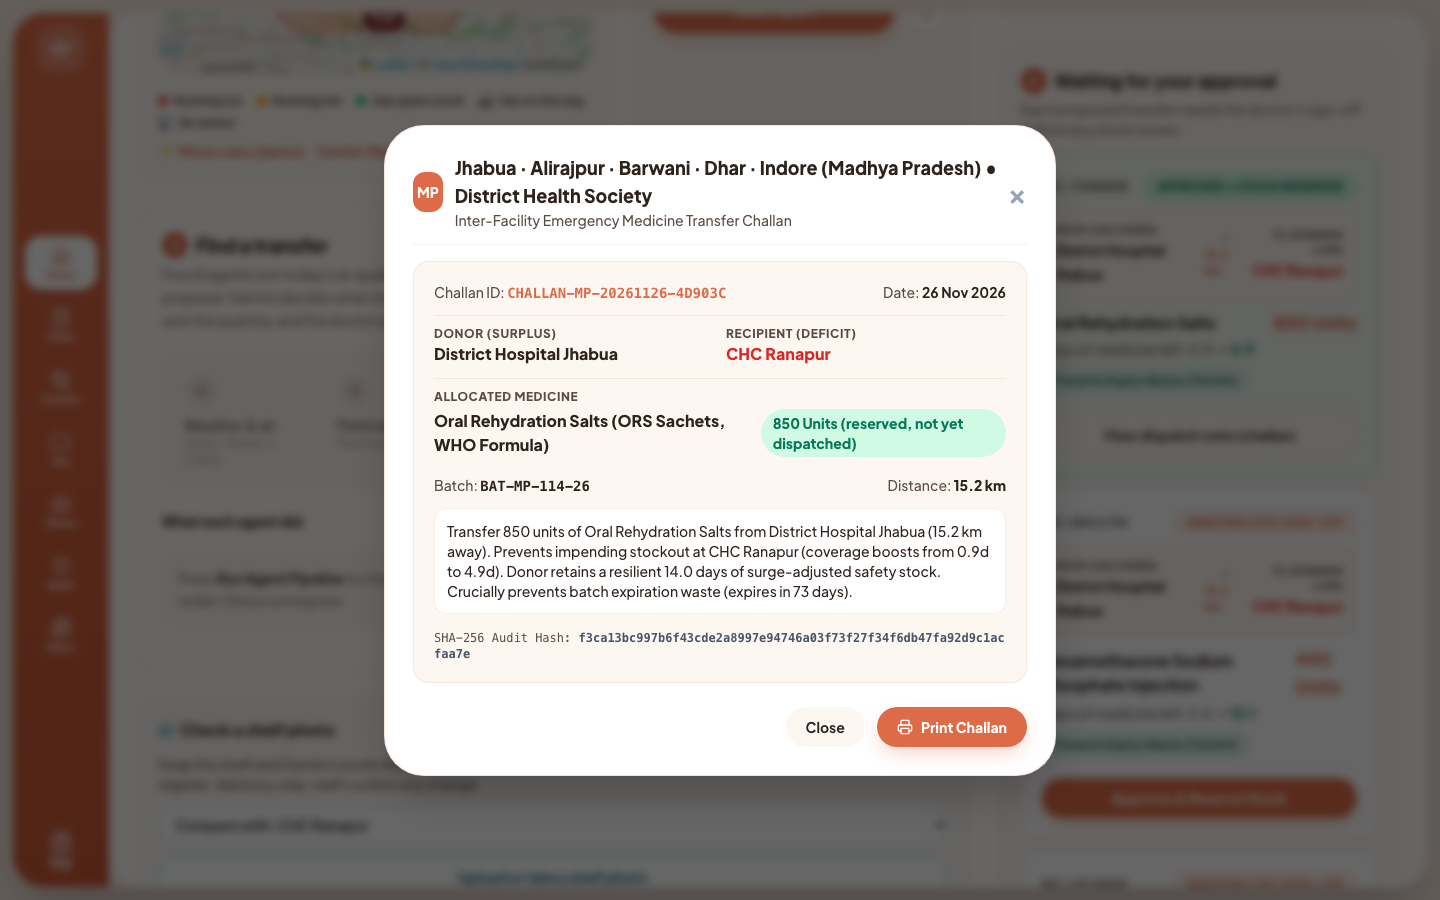
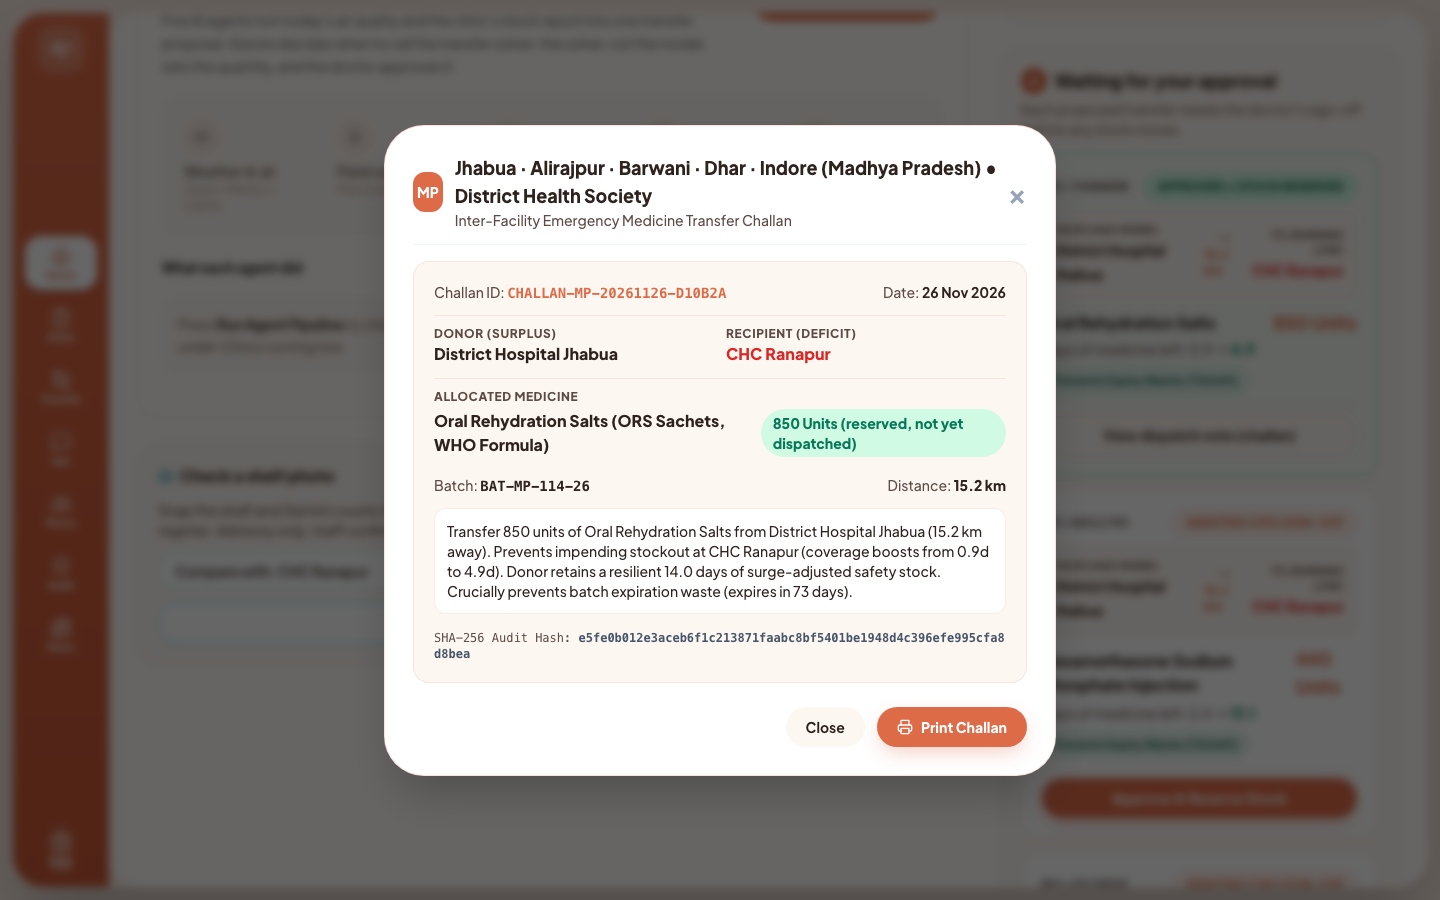
feat: rupees-saved panel for the district officer
- GET /api/impact/value?region=: rupees of near-expiry stock moved (Jan Aushadhi MRPs, each price row
  cited in data/medicines.json), stockout-days avoided in the first week, transfers approved, and the
  running-cost estimate, with every assumption listed. Per visitor.
- Salbutamol 2.5 mg respules and cetirizine 10 mg have no PMBJP price: counted as Rs 0 and listed.
- Dashboard card 'What your approvals saved'; radius copy follows the region (35 km; 50 km in MP).

diff --git a/static/app.js b/static/app.js
@@ -274,6 +274,8 @@ function initMap() {
   startCourierAnimationLoop();
 }
 
+function regionRadiusKm() { return currentRegion === 'indore' ? 50 : 35; }  // mirrors max_distance_km in app/regions.py
+
 const REGION_BUTTONS = { indore: 'btnRegionIdr', bhubaneswar: 'btnRegionBbs', lucknow: 'btnRegionLko' };
 function updateRegionButtons(regId) {
   const on = 'px-3.5 py-2 rounded-full font-black text-xs sm:text-sm bg-clay-terracotta text-white shadow-clay-btn transition flex items-center space-x-1.5';
@@ -304,6 +306,7 @@ async function switchRegion(regionId) {
   await fetchRisks();
   await fetchRecommendations();
   await fetchAuditLog();
+  await fetchImpactValue();
   await fetchNews(regionId);
   await loadClinicDesk(currentClinicFacilityId);
 }
@@ -334,6 +337,7 @@ async function loadInitialData(adoptServerRegion = false) {
     await fetchRisks();
     await fetchRecommendations();
     await fetchAuditLog();
+    await fetchImpactValue();
     await fetchNews(currentRegion);
     await loadClinicDesk(currentClinicFacilityId);
   } catch (err) {
@@ -779,7 +783,7 @@ function renderWatchlist(searchQuery = '') {
       </div>
       <div class="text-right flex items-center space-x-2 flex-shrink-0 pl-2">
         <span class="text-sm font-black text-clay-dark whitespace-nowrap">${item.current_stock} Units</span>
-        <button onclick="${isCritical ? 'runTransferFor' : 'openFacilityDetail'}('${safeId(item.facility_id)}')" class="text-xs ${isCritical ? 'bg-clay-terracotta hover:bg-clay-terracottaDark text-white' : 'bg-clay-terracotta/10 text-clay-terracotta hover:bg-clay-terracotta hover:text-white'} px-3.5 py-1.5 rounded-full font-bold shadow-sm transition cursor-pointer whitespace-nowrap" title="${isCritical ? 'Look for a clinic within 35 km that can spare stock' : 'See this clinic\'s stock'}">
+        <button onclick="${isCritical ? 'runTransferFor' : 'openFacilityDetail'}('${safeId(item.facility_id)}')" class="text-xs ${isCritical ? 'bg-clay-terracotta hover:bg-clay-terracottaDark text-white' : 'bg-clay-terracotta/10 text-clay-terracotta hover:bg-clay-terracotta hover:text-white'} px-3.5 py-1.5 rounded-full font-bold shadow-sm transition cursor-pointer whitespace-nowrap" title="${isCritical ? 'Look for a nearby clinic that can spare stock' : 'See this clinic\'s stock'}">
           ${isCritical ? 'Find stock' : 'View'}
         </button>
       </div>
@@ -1191,6 +1195,28 @@ function regionForFacility(facId) {
 
 function closeModal() {
   document.getElementById('challanModal').classList.add('hidden');
+}
+
+async function fetchImpactValue() {
+  try {
+    const res = await fetch(`/api/impact/value?region=${encodeURIComponent(currentRegion)}`);
+    if (!res.ok) return;
+    const v = await res.json();
+    const inr = n => '₹' + Number(n || 0).toLocaleString('en-IN');
+    const set = (id, text) => { const el = document.getElementById(id); if (el) el.textContent = text; };
+    set('valueSavedInr', inr(v.expiry_value_saved_inr));
+    set('valueDaysAvoided', String(v.stockout_days_avoided));
+    set('valueTransfers', String(v.transfers_approved));
+    set('valueCost', inr(v.projected_monthly_cost_inr) + '/mo');
+    const ul = document.getElementById('valueAssumptions');
+    if (ul) {
+      const notes = [...(v.assumptions || [])];
+      if ((v.unpriced_medicines || []).length) notes.push(`No sourced price, counted as ₹0: ${v.unpriced_medicines.join(', ')}.`);
+      ul.innerHTML = notes.map(t => `<li>${escapeHtml(t)}</li>`).join('');
+    }
+  } catch (e) {
+    console.error('fetchImpactValue error:', e);
+  }
 }
 
 async function resetMyDemo() {
@@ -1690,7 +1716,7 @@ function pipelineStepSummary(data, traces) {
     transfer: rec
       ? { state: 'done', figure: `${Number(rec.units_to_transfer) || 0} units from ${rec.donor_facility_name}` }
       : logistics
-        ? { state: 'alert', figure: 'No donor within 35 km' }
+        ? { state: 'alert', figure: `No donor within ${regionRadiusKm()} km` }
         : { state: 'skipped', figure: 'Not needed' },
     cmo: rec
       ? { state: 'waiting', figure: 'Waiting for approval' }
@@ -1720,7 +1746,7 @@ function renderPipelineOutcome(data, facId, medicineName) {
       <p class="text-sm font-bold text-[#2F6B52]">Proposal for ${facName} · waiting for CMO sign-off</p>
       <h4 class="text-xl sm:text-2xl font-black text-clay-dark tracking-tight mt-1 leading-snug">Send ${Number(rec.units_to_transfer) || 0} units of ${med} from ${escapeHtml(rec.donor_facility_name)} to ${escapeHtml(rec.recipient_facility_name)}</h4>
       <div class="grid grid-cols-2 lg:grid-cols-4 gap-2 mt-4">
-        ${figure(`${Number(rec.distance_km) || 0} km`, 'Distance (limit 35 km)')}
+        ${figure(`${Number(rec.distance_km) || 0} km`, `Distance (limit ${regionRadiusKm()} km)`)}
         ${figure(`${Number(rec.recipient_initial_coverage_days)} → ${Number(rec.recipient_new_coverage_days)} d`, `Cover at ${escapeHtml(rec.recipient_facility_name)}`)}
         ${figure(`${Number(rec.donor_remaining_coverage_days)} d`, `Cover kept at ${escapeHtml(rec.donor_facility_name)} (min 14 d)`)}
         ${figure(`${Number(rec.batch_expiry_days)} d`, 'Until the batch expires')}
@@ -1731,7 +1757,7 @@ function renderPipelineOutcome(data, facId, medicineName) {
     box.className = 'rounded-2xl p-5 sm:p-6 bg-[#FBE4DE]';
     box.innerHTML = `
       <p class="text-sm font-bold text-[#8F2A19]">${facName} · escalated</p>
-      <h4 class="text-xl sm:text-2xl font-black text-clay-dark tracking-tight mt-1 leading-snug">No clinic within 35 km can spare ${med} for ${facName}</h4>
+      <h4 class="text-xl sm:text-2xl font-black text-clay-dark tracking-tight mt-1 leading-snug">No clinic within ${regionRadiusKm()} km can spare ${med} for ${facName}</h4>
       <p class="text-sm text-clay-dark mt-2">The shortfall goes to the district store as a requisition.${sub ? ` A substitute, ${escapeHtml(sub.substitute_name)}, is available if the CMO approves it.` : ''}</p>`;
   } else {
     const cover = df.days_of_coverage;

diff --git a/static/index.html b/static/index.html
@@ -454,7 +454,7 @@
               <div class="flex items-baseline space-x-1.5 mt-1.5">
                 <span id="statAvgDist" class="text-lg sm:text-xl font-black text-clay-dark">--</span>
               </div>
-              <span class="text-xs font-semibold text-clay-muted mt-0.5">Per transfer, never over 35 km</span>
+              <span class="text-xs font-semibold text-clay-muted mt-0.5">Per transfer, within the region's limit (35 km; 50 km in MP)</span>
             </div>
           </div>
 
@@ -664,7 +664,7 @@
                 <span class="pipe-dot"><i data-lucide="route" class="w-4 h-4"></i></span>
                 <span class="min-w-0">
                   <span class="pipe-name">Transfer</span>
-                  <span class="pipe-figure">Donor within 35 km</span>
+                  <span class="pipe-figure">Donor within 35–50 km</span>
                 </span>
               </li>
               <li data-step="cmo" class="pipe-step" data-state="idle">
@@ -737,6 +737,21 @@
             <button onclick="openCmoModal()" class="bg-clay-terracotta hover:bg-clay-terracottaDark text-white text-xs sm:text-sm font-extrabold px-4 py-2.5 rounded-full shadow-clay-btn transition whitespace-nowrap" title="Ask about stock, cover or transfers in plain language">
               Ask a question
             </button>
+          </div>
+
+          <!-- What approved transfers returned (rupees panel for the district officer) -->
+          <div id="valuePanel" class="bg-white rounded-3xl p-5 border border-clay-salmon/20 shadow-sm">
+            <div class="flex items-center justify-between gap-2">
+              <h3 class="text-base sm:text-lg font-black text-clay-dark">What your approvals saved</h3>
+              <button type="button" onclick="document.getElementById('valueAssumptions').classList.toggle('hidden')" class="text-xs font-bold text-clay-terracotta hover:underline" title="How these figures are worked out">How we count ⓘ</button>
+            </div>
+            <div class="grid grid-cols-2 gap-3 mt-3">
+              <div class="bg-clay-inner rounded-2xl p-3"><div class="text-xs text-clay-muted font-semibold">Medicine saved from expiry</div><div id="valueSavedInr" class="text-xl font-black text-emerald-700">₹0</div></div>
+              <div class="bg-clay-inner rounded-2xl p-3"><div class="text-xs text-clay-muted font-semibold">Clinic stockout-days avoided</div><div id="valueDaysAvoided" class="text-xl font-black text-clay-dark">0</div></div>
+              <div class="bg-clay-inner rounded-2xl p-3"><div class="text-xs text-clay-muted font-semibold">Transfers approved</div><div id="valueTransfers" class="text-xl font-black text-clay-dark">0</div></div>
+              <div class="bg-clay-inner rounded-2xl p-3"><div class="text-xs text-clay-muted font-semibold">Running cost (estimate)</div><div id="valueCost" class="text-xl font-black text-clay-dark">₹1,000/mo</div></div>
+            </div>
+            <ul id="valueAssumptions" class="hidden mt-3 text-xs text-clay-muted list-disc pl-5 space-y-1"></ul>
           </div>
 
           <!-- Clinics running low -->

diff --git a/tests/test_impact_value.py b/tests/test_impact_value.py
@@ -1,0 +1,66 @@
+"""Rupees-saved panel for the district officer: every figure traceable to a price source or a stated assumption."""
+import json
+from pathlib import Path
+
+import pytest
+from fastapi.testclient import TestClient
+
+import app.main as main_module
+from app.impact_value import region_value_summary
+
+MEDS = {m["id"]: m for m in json.loads((Path(__file__).resolve().parent.parent / "data" / "medicines.json").read_text())}
+
+
+@pytest.fixture(autouse=True)
+def _sandbox(sandboxed):
+    yield
+
+
+def _consignment(med, units, expiring_batch, old_days, new_days, status="APPROVED_RESERVED"):
+    return {"id": f"C-{med}-{units}", "medicine_id": med, "units_requested": units, "status": status,
+            "recommendation_snapshot": {"expiry_waste_prevented": expiring_batch,
+                                        "recipient_initial_coverage_days": old_days,
+                                        "recipient_new_coverage_days": new_days}}
+
+
+def test_prices_have_sources():
+    for mid, m in MEDS.items():
+        assert "unit_price_inr" in m and "price_source" in m
+        if m["unit_price_inr"] is not None:
+            assert m["unit_price_inr"] > 0 and m["price_source"].startswith("http")
+
+
+def test_value_zero_before_any_approval():
+    v = region_value_summary({}, MEDS)
+    assert v["transfers_approved"] == 0 and v["expiry_value_saved_inr"] == 0 and v["stockout_days_avoided"] == 0
+    assert v["projected_monthly_cost_inr"] == 1000
+    assert v["assumptions"]
+
+
+def test_value_counts_expiring_stock_and_capped_cover():
+    cons = {"a": _consignment("MED-002", 100, True, 1.0, 9.0),     # ORS from a batch expiring <= 90 days
+            "b": _consignment("MED-005", 10, False, 2.0, 5.0),     # fresh batch: no expiry saving
+            "c": _consignment("MED-002", 50, True, 1.0, 3.0, status="CANCELLED")}
+    v = region_value_summary(cons, MEDS)
+    assert v["transfers_approved"] == 2
+    assert v["expiry_value_saved_inr"] == round(100 * MEDS["MED-002"]["unit_price_inr"])
+    assert v["stockout_days_avoided"] == pytest.approx((7.0 - 1.0) + (5.0 - 2.0))
+
+
+def test_unpriced_medicine_counts_zero_and_is_listed():
+    unpriced = [mid for mid, m in MEDS.items() if m["unit_price_inr"] is None]
+    assert unpriced, "at least one catalogue medicine has no sourced price"
+    v = region_value_summary({"x": _consignment(unpriced[0], 40, True, 1.0, 4.0)}, MEDS)
+    assert v["expiry_value_saved_inr"] == 0
+    assert unpriced[0] in v["unpriced_medicines"]
+
+
+def test_endpoint_after_approval_and_per_visitor():
+    a, b = TestClient(main_module.app), TestClient(main_module.app)
+    recs = a.get("/api/recommendations?region=indore&scenario=heat").json()
+    assert a.post("/api/approve-transfer?scenario=heat", json={"recommendation_id": recs[0]["id"]}).status_code == 200
+    va = a.get("/api/impact/value?region=indore").json()
+    assert va["transfers_approved"] == 1 and va["stockout_days_avoided"] > 0
+    assert va["expiry_value_saved_inr"] > 0  # Indore heat transfers move near-expiry heat medicines
+    vb = b.get("/api/impact/value?region=indore").json()
+    assert vb["transfers_approved"] == 0

diff --git a/app/impact_value.py b/app/impact_value.py
@@ -1,0 +1,50 @@
+"""What the district officer gets back, in rupees and clinic-days, from the transfers approved so far.
+
+Every figure is either computed from this visitor's own approved transfers or labelled as an estimate,
+with its source, in `assumptions`.
+"""
+from typing import Dict, List
+
+ACTIVE_STATUSES = ("APPROVED_RESERVED", "DISPATCHED", "RECEIVED")
+COVER_WINDOW_DAYS = 7.0  # the first week of a surge, where redistribution helps most (see scripts/simulate_impact.py)
+PROJECTED_MONTHLY_COST_INR = 1000
+
+ASSUMPTIONS: List[str] = [
+    "Unit prices are Jan Aushadhi (PMBJP) MRPs, per medicine in data/medicines.json with the list row cited.",
+    "Stock counts as saved from expiry when the batch moved expires within 90 days at the donor "
+    "(the same rule as the 'prevents expiry waste' badge).",
+    f"Stockout days avoided: for each transfer, the recipient's days of medicine gained, counted only inside the "
+    f"first {int(COVER_WINDOW_DAYS)} days.",
+    "Running cost is an estimate: about ₹1,000 a month for a 20-clinic district at Google's published "
+    "Gemini prices (voice reports, transfer checks, questions, read-aloud and photo checks).",
+    "Clinic stock is sample data; the figures show the method, not field results.",
+]
+
+
+def region_value_summary(consignments: Dict[str, dict], medicines: Dict[str, dict]) -> dict:
+    saved_inr = 0.0
+    days_avoided = 0.0
+    approved = 0
+    unpriced = set()
+    for c in consignments.values():
+        if c.get("status") not in ACTIVE_STATUSES:
+            continue
+        approved += 1
+        snap = c.get("recommendation_snapshot") or {}
+        old = float(snap.get("recipient_initial_coverage_days", 0) or 0)
+        new = float(snap.get("recipient_new_coverage_days", old) or old)
+        days_avoided += max(0.0, min(new, COVER_WINDOW_DAYS) - min(old, COVER_WINDOW_DAYS))
+        if snap.get("expiry_waste_prevented"):
+            price = (medicines.get(c.get("medicine_id"), {}) or {}).get("unit_price_inr")
+            if price is None:
+                unpriced.add(c.get("medicine_id"))
+            else:
+                saved_inr += price * int(c.get("units_requested", 0) or 0)
+    return {
+        "transfers_approved": approved,
+        "expiry_value_saved_inr": int(round(saved_inr)),
+        "stockout_days_avoided": round(days_avoided, 1),
+        "projected_monthly_cost_inr": PROJECTED_MONTHLY_COST_INR,
+        "unpriced_medicines": sorted(m for m in unpriced if m),
+        "assumptions": ASSUMPTIONS,
+    }

diff --git a/app/main.py b/app/main.py
@@ -18,6 +18,7 @@ from fastapi.responses import FileResponse, JSONResponse, Response
 from fastapi.middleware.cors import CORSMiddleware
 
 from app import sandbox as sandbox_mod
+from app.impact_value import region_value_summary
 from app.llm import ai_budget_remaining
 from app.regions import DEFAULT_REGION, REGIONS, UnknownRegionError, get_region
 from app.models import (
@@ -409,6 +410,14 @@ async def get_news(
         "live_count": sum(1 for a in articles if a.is_live),
         "articles": [a.model_dump() for a in articles]
     }
+
+@app.get("/api/impact/value")
+async def get_impact_value(region: Optional[str] = None):
+    """Rupees and clinic-days returned by this visitor's approved transfers in a region (see app/impact_value.py)."""
+    reg = resolve_region(region)
+    _, consignments, _, _ = storage.load_all(region=reg)
+    return {"region": reg, **region_value_summary(consignments, medicines_dict)}
+
 
 @app.get("/api/health")
 async def health():
